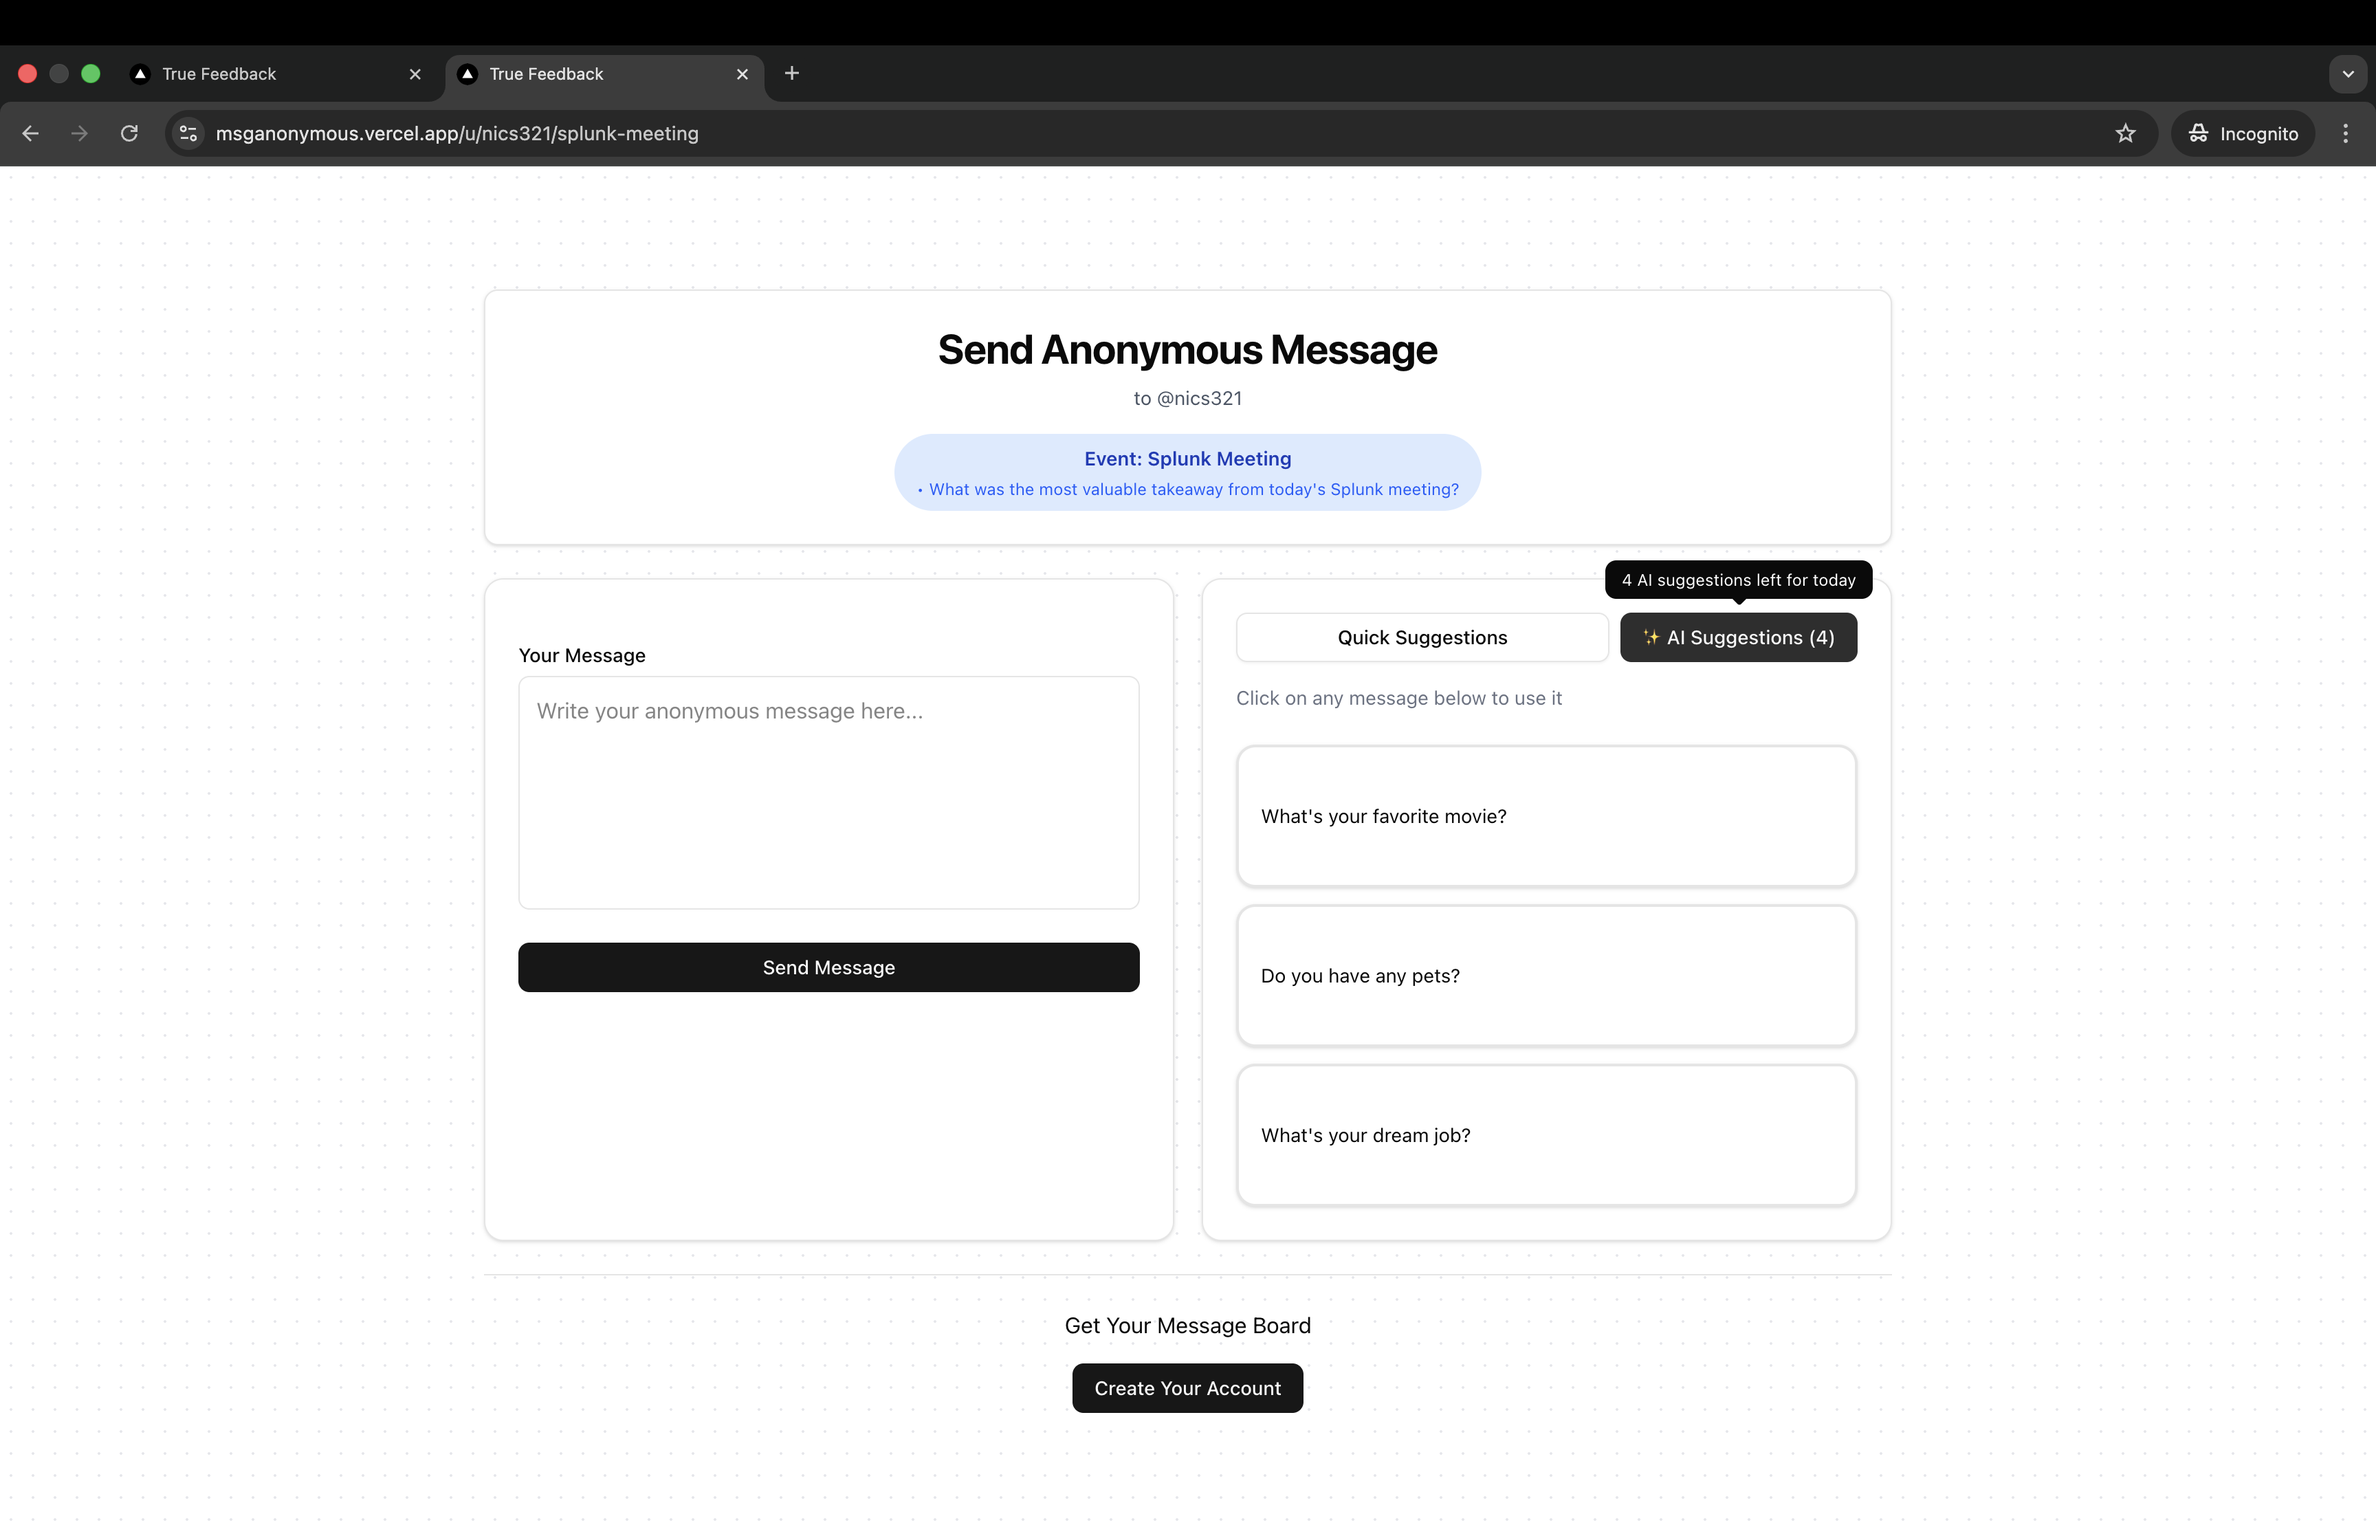
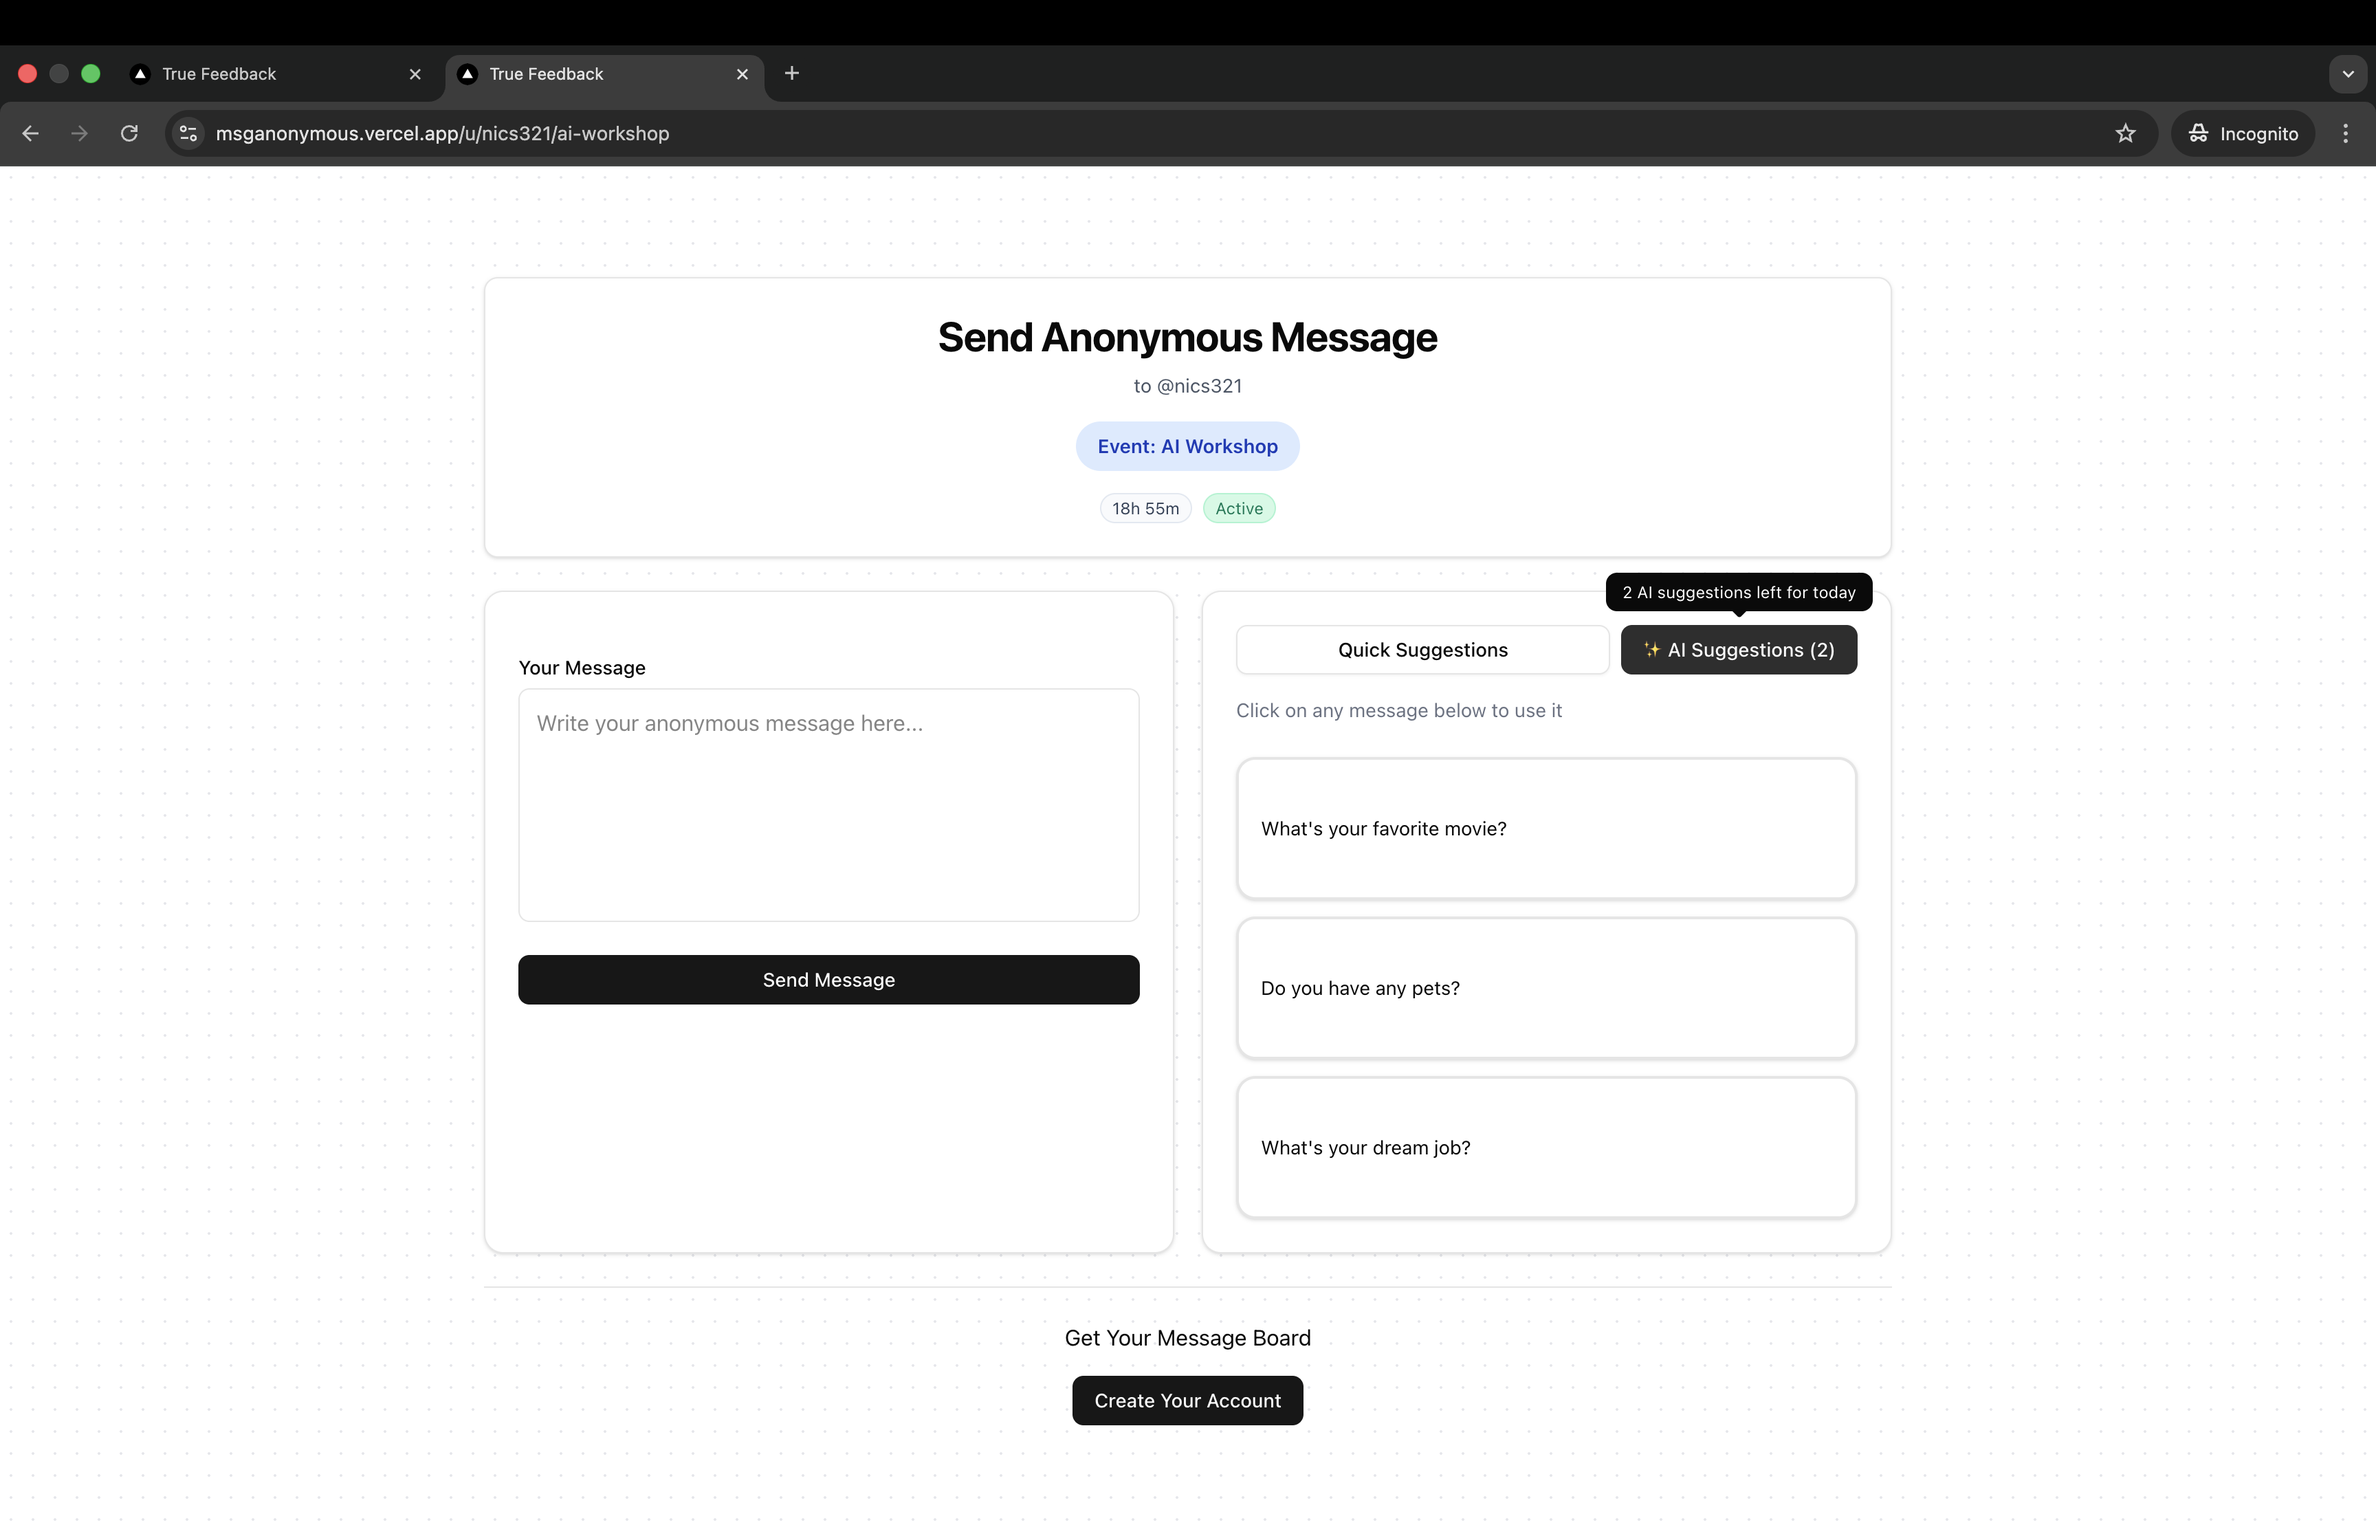
Updated README file

diff --git a/README.md b/README.md
@@ -64,8 +64,10 @@ The application uses server-side rendering for authenticated pages and serverles
 ![Landing Page](./screenshots/Landing.png)
 ![Sign In Page](./screenshots/SignIn.png)
 ![Sign Up Page](./screenshots/SignUp.png)
-![Dashboard](./screenshots/Dashboard.png)
-![Public Event Page](./screenshots/events.png)
+![Dashboard](./screenshots/Dashboard1.png)
+![Dashboard](./screenshots/Dashboard2.png)
+![Public Event Page](./screenshots/Events.png)
+![Public Message Page](./screenshots/Messages.png)
 
 ---
 
